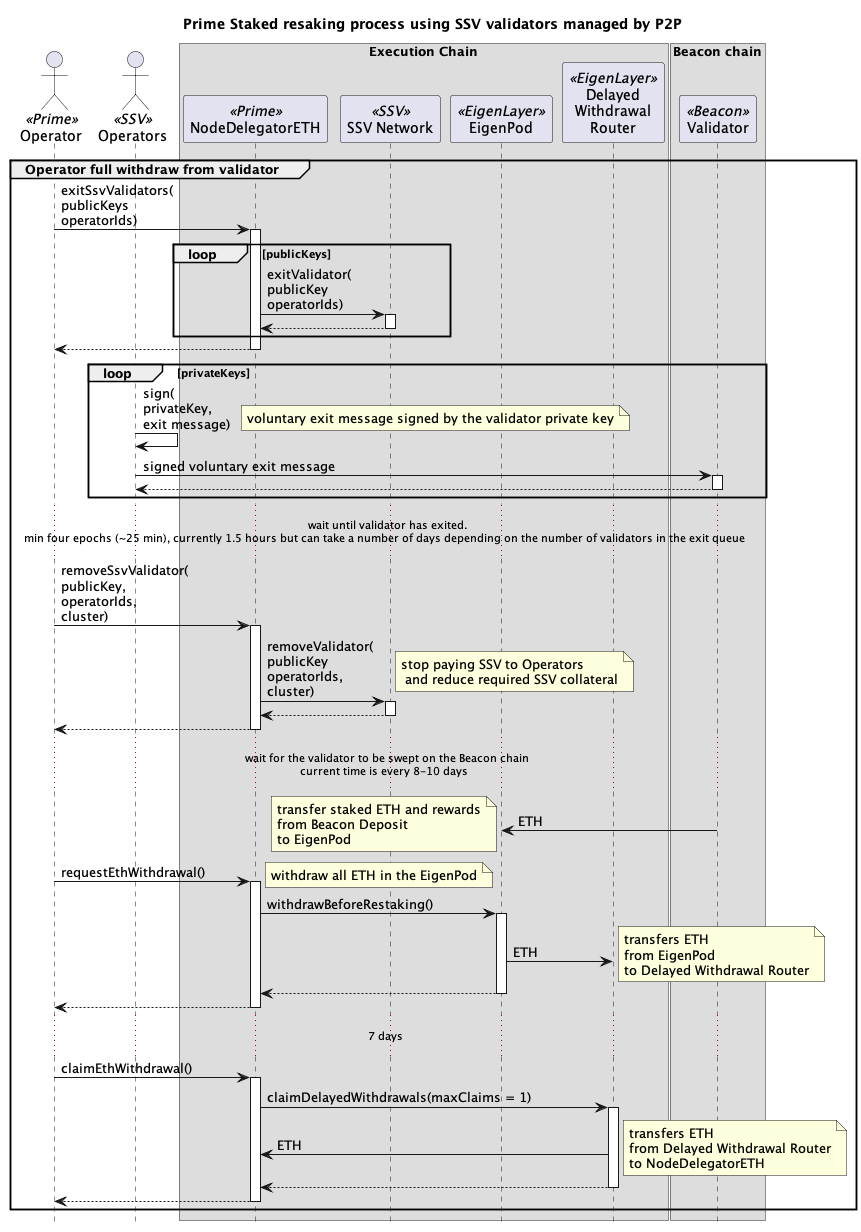
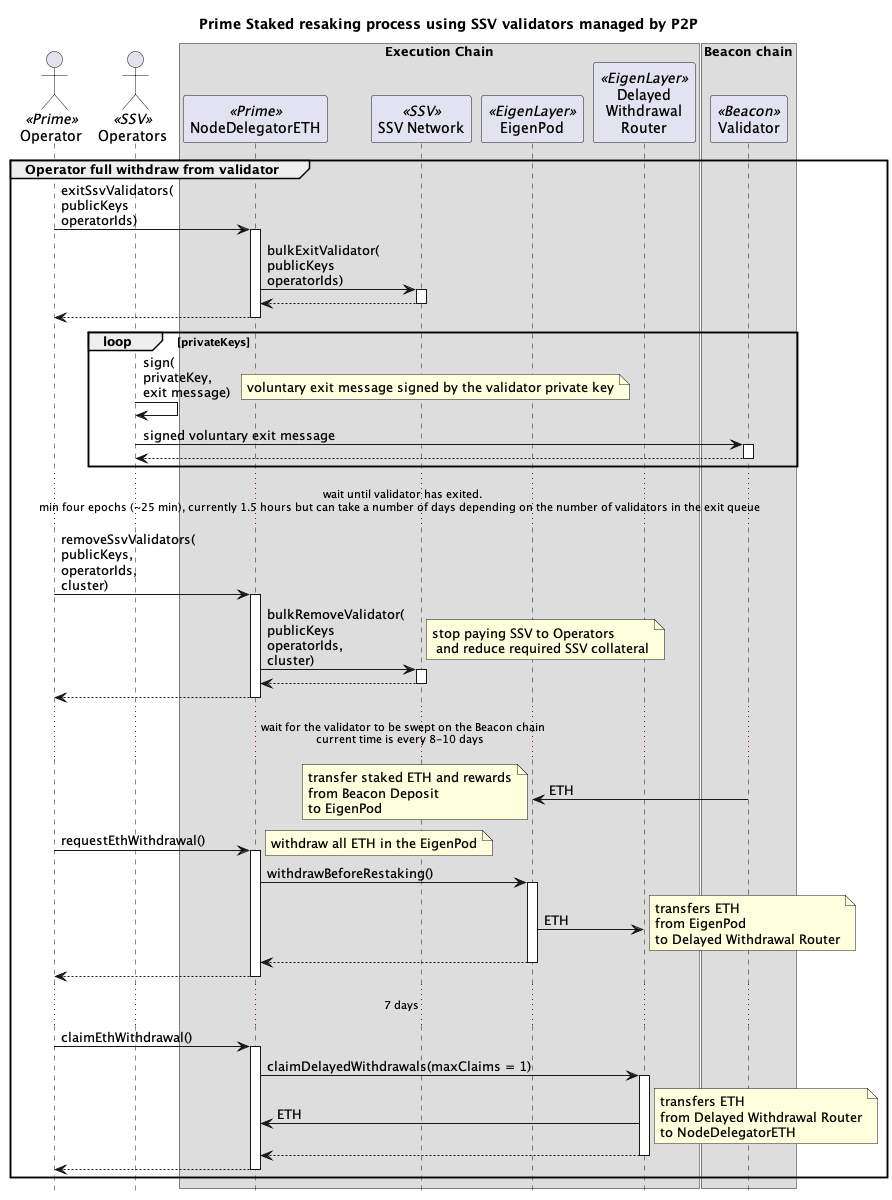
Changed removeSsvValidator back to removeSsvValidators

diff --git a/script/hardhat-tasks/ssv.js b/script/hardhat-tasks/ssv.js
@@ -33,7 +33,7 @@ const depositSSV = async (options) => {
 };
 
 const exitValidators = async (options) => {
-  const { signer, nodeDelegator, pubkey, operatorids } = options;
+  const { signer, nodeDelegator, pubkeys, operatorids } = options;
   log(`Splitting operator IDs ${operatorids}`);
   const operatorIds = operatorids.split(".").map((id) => parseInt(id));
 
@@ -49,18 +49,27 @@ const exitValidators = async (options) => {
   await logTxDetails(tx, "exitSsvValidators");
 };
 
-const removeSsvValidator = async (options) => {
-  const { signer, chainId, nodeDelegator, pubkey, operatorids, ssvNetwork } = options;
+const removeSsvValidators = async (options) => {
+  const { signer, chainId, nodeDelegator, pubkeys, operatorids, ssvNetwork } = options;
   log(`Splitting operator IDs ${operatorids}`);
   const operatorIds = operatorids.split(".").map((id) => parseInt(id));
+
+  const publicKeys = pubkeys.split(",");
+  publicKeys.forEach((key) => {
+    if (!key.match(publicKey)) {
+      throw new Error(`Public key is not 48 bytes in hexadecimal format with a 0x prefix: ${key}`);
+    }
+  });
 
   // Cluster details
   const clusterInfo = await getClusterInfo({ chainId, ssvNetwork, operatorids, ownerAddress: nodeDelegator.address });
 
-  log(`About to remove a validator with public key ${pubkey} from the SSV Cluster with operator IDs ${operatorIds}`);
+  log(
+    `About to remove validators with public keys ${publicKeys} from the SSV Cluster with operator IDs ${operatorIds}`,
+  );
   log(`Cluster: ${JSON.stringify(clusterInfo.snapshot)}`);
-  const tx = await nodeDelegator.connect(signer).removeSsvValidator(pubkey, operatorIds, clusterInfo.cluster);
-  await logTxDetails(tx, "removeSsvValidator");
+  const tx = await nodeDelegator.connect(signer).removeSsvValidators(publicKeys, operatorIds, clusterInfo.cluster);
+  await logTxDetails(tx, "removeSsvValidators");
 };
 
 const pauseDelegator = async ({ signer, nodeDelegator }) => {
@@ -223,7 +232,7 @@ module.exports = {
   approveSSV,
   depositSSV,
   exitValidators,
-  removeSsvValidator,
+  removeSsvValidators,
   pauseDelegator,
   unpauseDelegator,
   printClusterInfo,

diff --git a/script/hardhat-tasks/tasks.js b/script/hardhat-tasks/tasks.js
@@ -8,7 +8,7 @@ const {
   approveSSV,
   depositSSV,
   exitValidators,
-  removeSsvValidator,
+  removeSsvValidators,
   pauseDelegator,
   unpauseDelegator,
   printClusterInfo,
@@ -386,9 +386,9 @@ task("exitValidators").setAction(async (_, __, runSuper) => {
   return runSuper();
 });
 
-subtask("removeSsvValidator", "Remove a validator from a SSV Cluster")
+subtask("removeSsvValidators", "Remove a validator from a SSV Cluster")
   .addOptionalParam("index", "Index of Node Delegator", 1, types.int)
-  .addParam("pubkey", "A validator public key in hexadecimal format", undefined, types.string)
+  .addParam("pubkeys", "Comma separated list of validator public keys in hexadecimal format", undefined, types.string)
   .addParam(
     "operatorids",
     "4 operator ids separated with a dot: same as IP format. E.g. 60.79.220.349",
@@ -404,9 +404,9 @@ subtask("removeSsvValidator", "Remove a validator from a SSV Cluster")
     const nodeDelegator = await ethers.getContractAt("NodeDelegatorETH", nodeDelegatorAddress);
     const ssvNetwork = await parseAddress("SSV_NETWORK");
 
-    await removeSsvValidator({ ...taskArgs, signer, nodeDelegator, ssvNetwork, chainId: network.chainId });
+    await removeSsvValidators({ ...taskArgs, signer, nodeDelegator, ssvNetwork, chainId: network.chainId });
   });
-task("removeSsvValidator").setAction(async (_, __, runSuper) => {
+task("removeSsvValidators").setAction(async (_, __, runSuper) => {
   return runSuper();
 });
 
